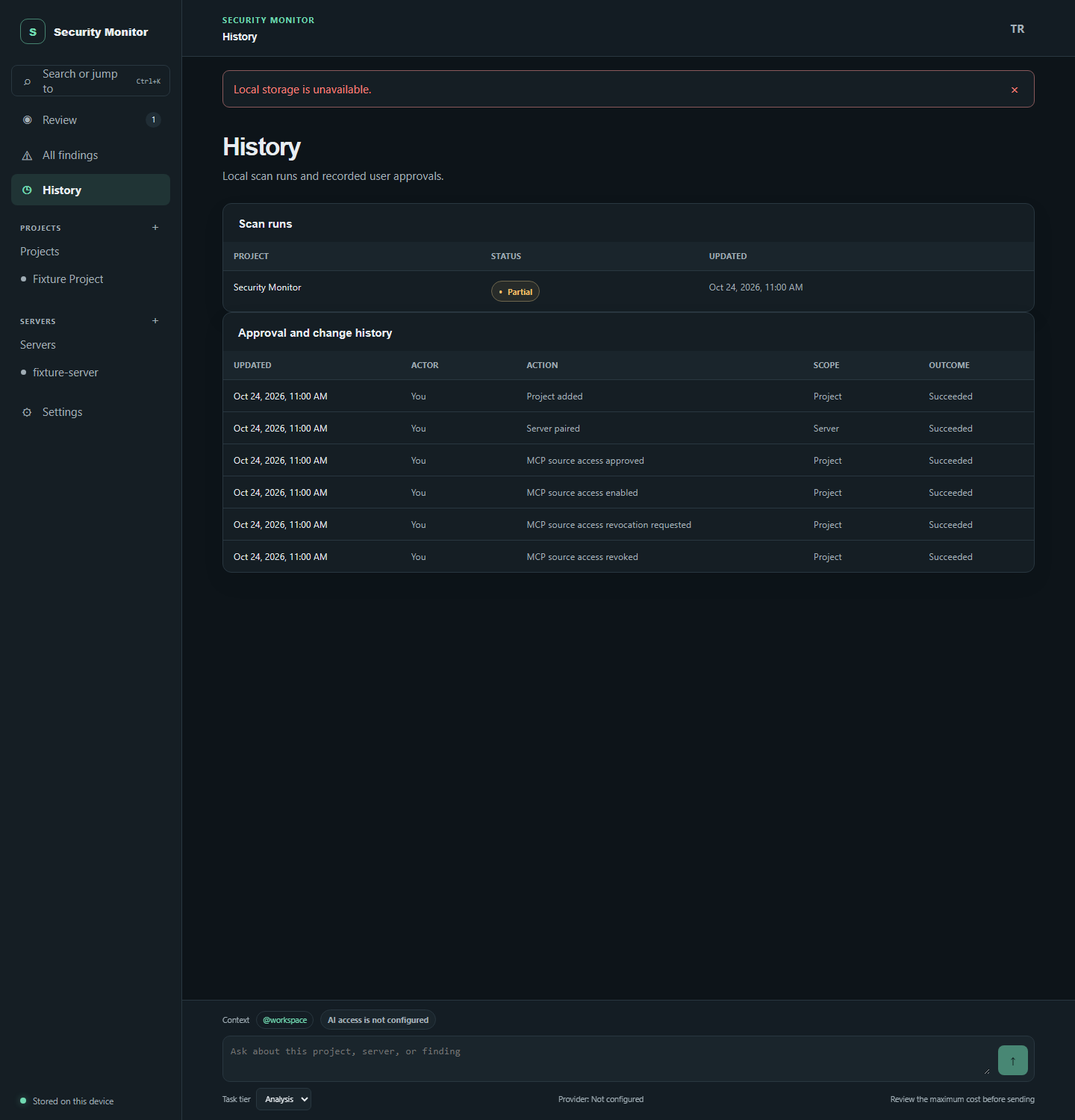
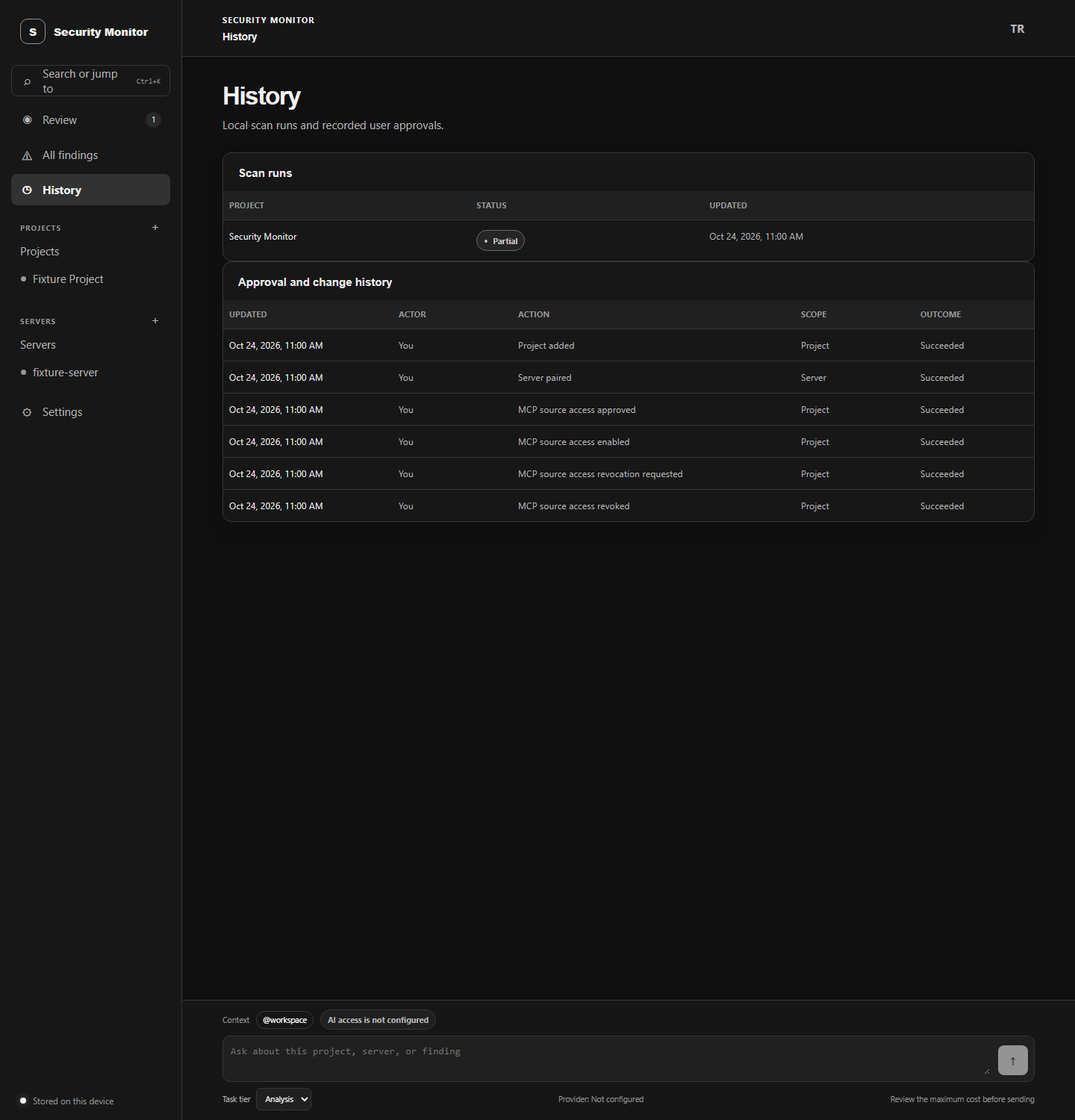
fix(ui): show verification states and source attribution

diff --git a/apps/desktop/src/App.tsx b/apps/desktop/src/App.tsx
@@ -47,6 +47,15 @@ function date(value: string | null | undefined, language: Language): string {
   return Number.isNaN(parsed.getTime()) ? "—" : new Intl.DateTimeFormat(language, { dateStyle: "medium", timeStyle: "short" }).format(parsed);
 }
 
+function safeExternalUrl(value: string): string | null {
+  try {
+    const url = new URL(value);
+    return url.protocol === "https:" && Boolean(url.hostname) && !url.username && !url.password ? url.toString() : null;
+  } catch {
+    return null;
+  }
+}
+
 function isFresh(value: string | null | undefined, hours: number): boolean {
   if (!value) return false;
   const timestamp = new Date(value).getTime();
@@ -326,7 +335,7 @@ function Projects({ data, t, addProject, startScan, cancelScan, scanState, activ
           <section className="project-subsection"><h3>{t("navigation.findings")}</h3>{projectFindings.length === 0 ? <p>{t("common.unverified")}</p> : <><p className="risk-summary">{(["critical", "high", "medium", "low"] as const).map((severity) => `${projectFindings.filter((finding) => finding.severity === severity).length} ${t(`severity.${severity}`)}`).join(" · ")}</p><ul>{projectFindings.slice(0, 3).map((finding) => <li key={finding.id}><button className="text-button" onClick={() => { setPage("findings"); setFocusFindingId(finding.id); setContext(project.name); }}>{data.advisories.find((item) => item.canonical_id === finding.advisory_id)?.canonical_id ?? finding.advisory_id}</button><span><StatusTag value={finding.status} t={t} /> <small>{t("findings.priority")}: {finding.priority_score}</small></span></li>)}</ul></>}</section>
           <section className="project-subsection"><h3>{t("projects.inventory")}</h3>{projectComponents.length === 0 ? <p>{project.last_scan_at ? t("common.noResults") : t("common.unverified")}</p> : <ul>{projectComponents.slice(0, 8).map((component) => <li key={component.id}><span>{component.name}@{component.version}</span><small>{t(`ecosystems.${component.ecosystem}`) === `ecosystems.${component.ecosystem}` ? t("common.unverified") : t(`ecosystems.${component.ecosystem}`)}</small></li>)}</ul>}</section>
           <section className="project-subsection"><div className="subsection-title"><h3>{t("drift.title")}</h3><StatusTag value="unverified" t={t} /></div><p>{t("drift.noSnapshotBody")}</p></section>
-          <section className="project-subsection"><h3>{t("projects.scanHistory")}</h3>{projectRuns.length === 0 ? <p>{t("common.unverified")}</p> : <ul>{projectRuns.map((run) => <li key={run.id}><StatusTag value={run.outcome} t={t} /><small>{date(run.finished_at ?? run.started_at, data.settings.language)}</small></li>)}</ul>}</section>
+          <section className="project-subsection"><h3>{t("projects.scanHistory")}</h3>{projectRuns.length === 0 ? <p>{t("common.unverified")}</p> : <ul>{projectRuns.map((run) => <li key={run.id}><StatusTag value={run.outcome} t={t} /><small>{date(run.finished_at ?? run.started_at, data.settings.language)}</small><ScanDiagnostics error={run.error} t={t} /></li>)}</ul>}</section>
           <MemoryNotes scope="project" scopeId={project.id} t={t} setNotice={setNotice} />
           <div className="project-meta"><span>{project.git_remote ? t("projects.remoteConfigured") : t("projects.noRemote")}</span><span>{t("common.updated")}: {date(project.updated_at, data.settings.language)}</span></div>
           <div className="button-row">{activeScanIds[project.id] ? <button className="button quiet" onClick={() => void cancelScan(project.id)}>{t("actions.cancel")}</button> : <><button className="button primary" onClick={() => void startScan(project, "quick")}>{t("actions.scanQuick")}</button><button className="button secondary" onClick={() => void startScan(project, "full")}>{t("actions.scanFull")}</button></>}</div>
@@ -396,9 +405,9 @@ function Findings({ data, t, refresh, setNotice, updateFinding, initialFindingId
   return <>
     <PageHeading title={t("findings.title")} description={t("findings.description")} />
     <section className="panel filters" aria-label={t("common.search")}><label className="field grow"><span>{t("common.search")}</span><input value={query} onChange={(event) => setQuery(event.target.value)} placeholder={t("common.searchPlaceholder")} /></label><label className="field"><span>{t("common.severity")}</span><select value={severity} onChange={(event) => setSeverity(event.target.value)}><option value="all">{t("common.all")}</option>{["critical", "high", "medium", "low", "unknown"].map((value) => <option key={value} value={value}>{t(`severity.${value}`)}</option>)}</select></label><label className="field"><span>{t("common.status")}</span><select value={status} onChange={(event) => setStatus(event.target.value)}><option value="all">{t("common.all")}</option>{["new", "needs_review", "confirmed_affected", "not_reachable", "mitigated", "fix_proposed", "fixed_in_repo", "fixed_in_production", "accepted_risk", "false_positive"].map((value) => <option key={value} value={value}>{t(`status.${value}`)}</option>)}</select></label><label className="field"><span>{t("common.project")}</span><select value={project} onChange={(event) => setProject(event.target.value)}><option value="all">{t("common.all")}</option>{data.projects.map((item) => <option value={item.id} key={item.id}>{item.name}</option>)}</select></label></section>
-    {filtered.length === 0 ? <Empty t={t} noResults={data.findings.length > 0} /> : <section className="panel table-panel"><div className="table-wrap"><table><thead><tr><th>{t("findings.advisory")}</th><th>{t("findings.package")}</th><th>{t("common.severity")}</th><th>{t("common.status")}</th><th>{t("common.project")}</th><th>{t("findings.priority")}</th><th>{t("common.updated")}</th></tr></thead><tbody>{filtered.map((finding) => {
+    {filtered.length === 0 ? <Empty t={t} noResults={data.findings.length > 0} /> : <section className="panel table-panel"><div className="table-wrap"><table><thead><tr><th>{t("findings.advisory")}</th><th>{t("findings.package")}</th><th>{t("common.severity")}</th><th>{t("common.status")}</th><th>{t("drift.repository")}</th><th>{t("drift.production")}</th><th>{t("common.project")}</th><th>{t("findings.priority")}</th><th>{t("common.updated")}</th></tr></thead><tbody>{filtered.map((finding) => {
       const advisory = advisories.get(finding.advisory_id); const instance = instances.get(finding.component_instance_id); const component = instance ? components.get(instance.component_id) : undefined;
-      return <tr key={finding.id}><td><button className="text-button" onClick={() => setSelected(finding)}>{advisory?.canonical_id ?? finding.advisory_id}</button><small className="cell-subtitle">{advisory?.title ?? t("common.unverified")}</small></td><td>{component ? `${component.name}@${component.version}` : t("common.unverified")}</td><td><SeverityLabel severity={finding.severity} t={t} /></td><td><StatusTag value={finding.status} t={t} /></td><td>{instance?.project_id ? projects.get(instance.project_id)?.name ?? t("common.unverified") : t("common.unknown")}</td><td>{finding.priority_score}</td><td>{date(finding.updated_at, data.settings.language)}</td></tr>;
+      return <tr key={finding.id}><td><button className="text-button" onClick={() => setSelected(finding)}>{advisory?.canonical_id ?? finding.advisory_id}</button><small className="cell-subtitle">{advisory?.title ?? t("common.unverified")}</small></td><td>{component ? `${component.name}@${component.version}` : t("common.unverified")}</td><td><SeverityLabel severity={finding.severity} t={t} /></td><td><StatusTag value={finding.status} t={t} /></td><td><RepoProductionStatus kind="repo" value={finding.repo_status} compact t={t} /></td><td><RepoProductionStatus kind="production" value={finding.production_status} compact t={t} /></td><td>{instance?.project_id ? projects.get(instance.project_id)?.name ?? t("common.unverified") : t("common.unknown")}</td><td>{finding.priority_score}</td><td>{date(finding.updated_at, data.settings.language)}</td></tr>;
     })}</tbody></table></div></section>}
     {selected && (editingStatus
       ? <StatusDialog finding={selected} instance={instances.get(selected.component_instance_id)} t={t} close={() => setEditingStatus(false)} onSave={async (change) => { try { const updated = await api.setFindingStatus(change); updateFinding(updated); setSelected(null); setEditingStatus(false); setNotice({ kind: "success", message: t("findings.statusSaved") }); refresh(); } catch (error) { setNotice({ kind: "error", message: safeError(error, t) }); } }} />
@@ -442,7 +451,7 @@ function FindingDetail({ finding, advisory, component, instance, projectName, ev
   return <div className="dialog-backdrop" role="presentation" onMouseDown={(event) => { if (event.target === event.currentTarget) close(); }}><article className="finding-detail panel" role="dialog" aria-modal="true" aria-labelledby="finding-detail-title">
     <div className="panel-heading"><div><span className="eyebrow">{t("findings.detailTitle")}</span><h2 id="finding-detail-title">{advisory?.canonical_id ?? finding.advisory_id}</h2></div><button className="icon-button" aria-label={t("actions.close")} onClick={close}>×</button></div>
     <p className="finding-detail-package">{component ? `${component.name}@${component.version}` : t("common.unverified")} · {projectName ?? t("common.unverified")}</p>
-    <div className="finding-detail-tags"><SeverityLabel severity={finding.severity} t={t} /><StatusTag value={finding.status} t={t} /><span className="tag">{t("findings.priority")}: {finding.priority_score}</span></div>
+    <div className="finding-detail-tags"><SeverityLabel severity={finding.severity} t={t} /><StatusTag value={finding.status} t={t} /><RepoProductionStatus kind="repo" value={finding.repo_status} t={t} /><RepoProductionStatus kind="production" value={finding.production_status} t={t} /><span className="tag">{t("findings.priority")}: {finding.priority_score}</span></div>
     <section><h3>{t("findings.whyMatters")}</h3><p>{advisory?.description || advisory?.summary || t("common.unverified")}</p>{why.length > 0 && <ul>{why.map((reason, index) => <li key={`${reason}-${index}`}>{reason}</li>)}</ul>}</section>
     <section><h3>{t("findings.evidence")}</h3>{evidence.length === 0 && instanceEvidence.length === 0 ? <p>{t("findings.noEvidence")}</p> : <ul>{evidence.map((item) => {
       const evidenceKey = `evidence.${item.evidence_type}`;
@@ -485,11 +494,37 @@ function Drift({ data, t }: { data: WorkspaceData; t: T }) {
 }
 
 function History({ data, t }: { data: WorkspaceData; t: T }) {
-  return <><PageHeading title={t("history.title")} description={t("history.description")} /><section className="panel table-panel"><div className="panel-heading"><h2>{t("history.scanRuns")}</h2></div>{data.runs.length === 0 ? <Empty t={t} /> : <div className="table-wrap"><table><thead><tr><th>{t("common.project")}</th><th>{t("common.status")}</th><th>{t("common.updated")}</th></tr></thead><tbody>{data.runs.map((run) => <tr key={run.id}><td>{run.scanner === "security-monitor" ? t("appName") : t("common.unknown")}</td><td><StatusTag value={run.outcome} t={t} /></td><td>{date(run.finished_at ?? run.started_at, data.settings.language)}</td></tr>)}</tbody></table></div>}</section><section className="panel table-panel"><div className="panel-heading"><h2>{t("history.auditEvents")}</h2></div>{data.audit.length === 0 ? <Empty t={t} /> : <div className="table-wrap"><table><thead><tr><th>{t("common.updated")}</th><th>{t("history.actor")}</th><th>{t("history.action")}</th><th>{t("history.scope")}</th><th>{t("history.outcome")}</th></tr></thead><tbody>{[...data.audit].sort((a, b) => b.timestamp.localeCompare(a.timestamp)).map((event) => <tr key={event.id}><td>{date(event.timestamp, data.settings.language)}</td><td>{event.actor === "user" ? t("common.user") : t("common.unknown")}</td><td>{auditAction(event.action, t)}</td><td>{event.scope.resource_type === "project" ? t("common.project") : event.scope.resource_type === "asset" ? t("common.server") : t("common.unknown")}</td><td>{t(`status.${event.result}`)}</td></tr>)}</tbody></table></div>}</section></>;
+  return <><PageHeading title={t("history.title")} description={t("history.description")} /><section className="panel table-panel"><div className="panel-heading"><h2>{t("history.scanRuns")}</h2></div>{data.runs.length === 0 ? <Empty t={t} /> : <div className="table-wrap"><table><thead><tr><th>{t("common.project")}</th><th>{t("common.status")}</th><th>{t("common.updated")}</th></tr></thead><tbody>{data.runs.map((run) => <tr key={run.id}><td>{run.scanner === "security-monitor" ? t("appName") : t("common.unknown")}</td><td><StatusTag value={run.outcome} t={t} /><ScanDiagnostics error={run.error} t={t} /></td><td>{date(run.finished_at ?? run.started_at, data.settings.language)}</td></tr>)}</tbody></table></div>}</section><section className="panel table-panel"><div className="panel-heading"><h2>{t("history.auditEvents")}</h2></div>{data.audit.length === 0 ? <Empty t={t} /> : <div className="table-wrap"><table><thead><tr><th>{t("common.updated")}</th><th>{t("history.actor")}</th><th>{t("history.action")}</th><th>{t("history.scope")}</th><th>{t("history.outcome")}</th></tr></thead><tbody>{[...data.audit].sort((a, b) => b.timestamp.localeCompare(a.timestamp)).map((event) => <tr key={event.id}><td>{date(event.timestamp, data.settings.language)}</td><td>{event.actor === "user" ? t("common.user") : t("common.unknown")}</td><td>{auditAction(event.action, t)}</td><td>{event.scope.resource_type === "project" ? t("common.project") : event.scope.resource_type === "asset" ? t("common.server") : t("common.unknown")}</td><td>{t(`status.${event.result}`)}</td></tr>)}</tbody></table></div>}</section></>;
+}
+
+function ScanDiagnostics({ error, t }: { error: string | null; t: T }) {
+  if (!error) return null;
+  const items = error.split(",").map((diagnostic) => {
+    const [kind, engine, scope, state] = diagnostic.split(":");
+    if (kind === "scanner_coverage" && engine && scope && state) {
+      const scanner = t(`scanner.${engine.replaceAll("-", "_")}`);
+      return `${scanner} · ${t(`scanCoverage.${scope}`)} · ${t(`scanCoverage.${state}`)}`;
+    }
+    if (kind === "scanner_execution_failed" && engine && scope) {
+      return `${t(`scanner.${engine.replaceAll("-", "_")}`)} · ${t(`scanCoverage.${scope}`)} · ${t("scanCoverage.incomplete")}`;
+    }
+    const key = `scanDiagnostics.${diagnostic}`;
+    return t(key) === key ? t("common.unverified") : t(key);
+  });
+  return <ul className="scan-diagnostics">{items.map((item, index) => <li key={`${item}-${index}`}>{item}</li>)}</ul>;
 }
 
 function Settings({ data, t, saveSettings, setNotice, refresh }: { data: WorkspaceData; t: T; saveSettings: (settings: AppSettings) => Promise<void>; setNotice: NoticeSetter; refresh: () => void }) {
   const settings = data.settings;
+  const builtInAttributions = [
+    { name: "cve.now", url: "https://cve.now/", license: "CC-BY 4.0" },
+    { name: "OSV", url: "https://osv.dev/", license: t("settings.osvLicenses") },
+    { name: "GitHub Advisory Database", url: "https://github.com/advisories", license: "CC-BY 4.0" },
+    { name: "CISA KEV", url: "https://www.cisa.gov/known-exploited-vulnerabilities-catalog", license: null },
+    { name: "FIRST EPSS", url: "https://www.first.org/epss/", license: "Attribution requested by FIRST" },
+  ];
+  const attributions = [...new Map([...builtInAttributions, ...data.advisories.flatMap((advisory) => advisory.source_attributions)].map((source) => [`${source.name}\u0000${source.url}\u0000${source.license ?? ""}`, source])).values()]
+    .sort((left, right) => left.name.localeCompare(right.name) || left.url.localeCompare(right.url));
   const [scanners, setScanners] = useState<{ engine: string; status: string; version: string | null }[]>([]);
   const [busyEngine, setBusyEngine] = useState<string | null>(null);
   const [update, setUpdate] = useState<UpdateCheckResult | null>(null);
@@ -569,6 +604,7 @@ function Settings({ data, t, saveSettings, setNotice, refresh }: { data: Workspa
       {scanners.length === 0 ? <p>{t("common.unverified")}</p> : <ul className="scanner-list">{scanners.map((scanner) => <li key={scanner.engine}><span>{t(`scanner.${scanner.engine.replaceAll("-", "_")}`)}</span><span className={`tag ${scanner.status === "available" ? "verified" : "unverified"}`}>{t(`scanner.${scanner.status}`)}</span>{scanner.version && <small>{scanner.version}</small>}{scanner.status === "missing" && ["osv-scanner", "trivy", "semgrep"].includes(scanner.engine) && <button className="button secondary" disabled={!settings.public_downloads_enabled || busyEngine === scanner.engine} onClick={() => void install(scanner.engine)}>{busyEngine === scanner.engine ? t("common.loading") : t("actions.install")}</button>}</li>)}</ul>}
     </section>
     <section className="panel settings-panel"><h2>{t("settings.appearance")}</h2><label className="field"><span>{t("settings.appearance")}</span><select value={settings.theme} onChange={(event) => void saveSettings({ ...settings, theme: event.target.value as AppSettings["theme"] })}>{["system", "light", "dark"].map((value) => <option value={value} key={value}>{t(`theme.${value}`)}</option>)}</select></label><label className="field"><span>{t("settings.language")}</span><select value={settings.language} onChange={(event) => void saveSettings({ ...settings, language: event.target.value as AppSettings["language"] })}><option value="en">{en.languageName}</option><option value="tr">{tr.languageName}</option></select></label></section>
+    <section className="panel settings-panel"><h2>{t("settings.dataSources")}</h2><p>{t("settings.dataSourcesHelp")}</p><ul className="simple-list">{attributions.map((source) => { const url = safeExternalUrl(source.url); return <li key={`${source.name}-${source.url}-${source.license ?? ""}`}><span><strong>{source.name}</strong><small>{source.license ?? t("settings.licenseUnverified")}</small></span>{url ? <a href={url} target="_blank" rel="noreferrer">{source.url}</a> : <code>{t("common.unverified")}</code>}</li>; })}</ul></section>
     <AiSettingsPanel data={data} t={t} setNotice={setNotice} refresh={refresh} />
     <section className="panel settings-panel"><h2>{t("settings.backup")}</h2><p>{t("settings.backupHelp")}</p></section>
   </>;
@@ -636,5 +672,17 @@ function StatusTag({ value, t }: { value: string; t: T }) {
 }
 
 function SeverityLabel({ severity, t }: { severity: string; t: T }) {
-  return <span className="severity-label"><span className={`severity-dot ${severity}`} />{t(`severity.${severity}`)}</span>;
+  const marks: Record<string, string> = { critical: "■", high: "●", medium: "◐", low: "○", unknown: "◌" };
+  const label = severity === "unknown" ? t("common.unverified") : t(`severity.${severity}`);
+  return <span className={`severity-label severity-${severity}`}><span className="severity-mark" aria-hidden="true">{marks[severity] ?? marks.unknown}</span><span>{label}</span></span>;
+}
+
+function RepoProductionStatus({ kind, value, compact = false, t }: { kind: "repo" | "production"; value: string; compact?: boolean; t: T }) {
+  const labels: Record<string, string> = {
+    still_affected: "drift.stillAffected",
+    fixed_in_repo: "drift.fixedInRepo",
+    fixed_in_production: "drift.fixedInProduction",
+    unknown: "common.unverified",
+  };
+  return <span className={`tag repo-production-status${compact ? " compact" : ""}`}><span className={compact ? "sr-only" : undefined}>{t(kind === "repo" ? "drift.repository" : "drift.production")}</span><strong>{t(labels[value] ?? "common.unverified")}</strong></span>;
 }

diff --git a/apps/desktop/src/RemediationSection.tsx b/apps/desktop/src/RemediationSection.tsx
@@ -126,33 +126,33 @@ export function RemediationSection({ findingId, projectId, data, t, setNotice }:
   }
 
   return <section className="remediation-workflow" aria-labelledby="remediation-workflow-title">
-    <h4 id="remediation-workflow-title">{t("findings.remediation.workflowTitle")}</h4>
-    {projectId === null ? <p className="unverified-line">{t("findings.remediation.projectRequired")}</p> : <>
-      {mcpRequests.map((request) => <article className="remediation-mcp-request" key={request.id}><strong>{request.action === "prepare_patch" ? t("findings.remediation.mcpPatchRequest") : t("findings.remediation.mcpTestRequest")}</strong><small>{t("findings.remediation.mcpQueueHelp")}</small><div className="button-row end">{request.action === "prepare_patch" && <button className="button secondary" disabled={busyId !== null || active || !request.provider_id || !providers.some((provider) => provider.id === request.provider_id)} onClick={() => void queueMcpPatch(request)}>{busyId === request.id ? t("common.loading") : t("findings.remediation.reviewMcpRequest")}</button>}<button className="button quiet" disabled={busyId !== null} onClick={() => void dismissMcpRequest(request)}>{t("actions.cancel")}</button></div></article>)}
-      {providers.length === 0 ? <p className="unverified-line">{t("findings.remediation.providerRequired")}</p> : <div className="remediation-request-row">
-        <label className="field"><span>{t("findings.remediation.agentProvider")}</span><select value={providerId} onChange={(event) => setProviderId(event.target.value)}>{providers.map((provider) => <option key={provider.id} value={provider.id}>{provider.display_name}</option>)}</select></label>
-        <button className="button secondary" disabled={busyId !== null || active || !providerId} onClick={() => void requestPatch()}>{busyId === "new" ? t("common.loading") : t("findings.remediation.requestPatch")}</button>
+    <h4 id="remediation-workflow-title">{t("findings.remediationWorkflow.workflowTitle")}</h4>
+    {projectId === null ? <p className="unverified-line">{t("findings.remediationWorkflow.projectRequired")}</p> : <>
+      {mcpRequests.map((request) => <article className="remediation-mcp-request" key={request.id}><strong>{request.action === "prepare_patch" ? t("findings.remediationWorkflow.mcpPatchRequest") : t("findings.remediationWorkflow.mcpTestRequest")}</strong><small>{t("findings.remediationWorkflow.mcpQueueHelp")}</small><div className="button-row end">{request.action === "prepare_patch" && <button className="button secondary" disabled={busyId !== null || active || !request.provider_id || !providers.some((provider) => provider.id === request.provider_id)} onClick={() => void queueMcpPatch(request)}>{busyId === request.id ? t("common.loading") : t("findings.remediationWorkflow.reviewMcpRequest")}</button>}<button className="button quiet" disabled={busyId !== null} onClick={() => void dismissMcpRequest(request)}>{t("actions.cancel")}</button></div></article>)}
+      {providers.length === 0 ? <p className="unverified-line">{t("findings.remediationWorkflow.providerRequired")}</p> : <div className="remediation-request-row">
+        <label className="field"><span>{t("findings.remediationWorkflow.agentProvider")}</span><select value={providerId} onChange={(event) => setProviderId(event.target.value)}>{providers.map((provider) => <option key={provider.id} value={provider.id}>{provider.display_name}</option>)}</select></label>
+        <button className="button secondary" disabled={busyId !== null || active || !providerId} onClick={() => void requestPatch()}>{busyId === "new" ? t("common.loading") : t("findings.remediationWorkflow.requestPatch")}</button>
       </div>}
-      {sandbox && !sandbox.available && <p className="unverified-line">{t("findings.remediation.sandboxUnavailable")}</p>}
-      {remediations.length === 0 ? <p>{t("findings.remediation.noRequests")}</p> : <ul className="remediation-list">{[...remediations].sort((left, right) => right.created_at.localeCompare(left.created_at)).map((item) => <li key={item.id}>
-        <div className="remediation-head"><strong>{t(`findings.remediation.states.${item.approval_state}`)}</strong><code>{item.branch}</code></div>
+      {sandbox && !sandbox.available && <p className="unverified-line">{t("findings.remediationWorkflow.sandboxUnavailable")}</p>}
+      {remediations.length === 0 ? <p>{t("findings.remediationWorkflow.noRequests")}</p> : <ul className="remediation-list">{[...remediations].sort((left, right) => right.created_at.localeCompare(left.created_at)).map((item) => <li key={item.id}>
+        <div className="remediation-head"><strong>{t(`findings.remediationWorkflow.states.${item.approval_state}`)}</strong><code>{item.branch}</code></div>
         {item.approval_state === "pending" && <div className="approval-box">
-          <p>{t("findings.remediation.patchApprovalHelp")}</p>
-          <label className="check-field"><input type="checkbox" checked={sourceTransferApproved} onChange={(event) => setSourceTransferApproved(event.target.checked)} />{t("findings.remediation.sourceTransferApproval")}</label>
-          <div className="button-row end"><button className="button quiet" disabled={busyId !== null} onClick={() => void reject(item)}>{t("actions.cancel")}</button><button className="button primary" disabled={busyId !== null || !sourceTransferApproved} onClick={() => void approve(item)}>{busyId === item.id ? t("common.loading") : t("findings.remediation.approveAndPrepare")}</button></div>
+          <p>{t("findings.remediationWorkflow.patchApprovalHelp")}</p>
+          <label className="check-field"><input type="checkbox" checked={sourceTransferApproved} onChange={(event) => setSourceTransferApproved(event.target.checked)} />{t("findings.remediationWorkflow.sourceTransferApproval")}</label>
+          <div className="button-row end"><button className="button quiet" disabled={busyId !== null} onClick={() => void reject(item)}>{t("actions.cancel")}</button><button className="button primary" disabled={busyId !== null || !sourceTransferApproved} onClick={() => void approve(item)}>{busyId === item.id ? t("common.loading") : t("findings.remediationWorkflow.approveAndPrepare")}</button></div>
         </div>}
         {item.approval_state === "approved" && <>
-          {mcpRequests.some((request) => request.remediation_id === item.id) && <p className="unverified-line">{t("findings.remediation.mcpTestRequest")}</p>}
-          <p className="remediation-path"><span>{t("findings.remediation.worktree")}</span><code>{item.worktree_path}</code></p>
-          {item.diff_hash ? <p className="remediation-path"><span>{t("findings.remediation.diffHash")}</span><code>{item.diff_hash}</code></p> : <p className="unverified-line">{t("findings.remediation.noDiff")}</p>}
-          {item.tests.map((test, index) => <p className="remediation-test" key={`${item.id}-${index}`}><StatusTag value={test.passed ? "succeeded" : "failed"} t={t} /><span>{test.name}</span><small>{test.exit_code === null ? t("findings.remediation.exitUnknown") : `${t("findings.remediation.exitCode")}: ${test.exit_code}`}</small></p>)}
+          {mcpRequests.some((request) => request.remediation_id === item.id) && <p className="unverified-line">{t("findings.remediationWorkflow.mcpTestRequest")}</p>}
+          <p className="remediation-path"><span>{t("findings.remediationWorkflow.worktree")}</span><code>{item.worktree_path}</code></p>
+          {item.diff_hash ? <p className="remediation-path"><span>{t("findings.remediationWorkflow.diffHash")}</span><code>{item.diff_hash}</code></p> : <p className="unverified-line">{t("findings.remediationWorkflow.noDiff")}</p>}
+          {item.tests.map((test, index) => <p className="remediation-test" key={`${item.id}-${index}`}><StatusTag value={test.passed ? "succeeded" : "failed"} t={t} /><span>{test.name}</span><small>{test.exit_code === null ? t("findings.remediationWorkflow.exitUnknown") : `${t("findings.remediationWorkflow.exitCode")}: ${test.exit_code}`}</small></p>)}
           {sandbox?.available && <div className="remediation-test-form">
-            <h5>{t("findings.remediation.runTests")}</h5>
-            <label className="field"><span>{t("findings.remediation.testExecutable")}</span><input value={testExecutable} onChange={(event) => setTestExecutable(event.target.value)} /></label>
-            <label className="field"><span>{t("findings.remediation.testArguments")}</span><textarea rows={3} value={testArgs} onChange={(event) => setTestArgs(event.target.value)} /></label>
-            <label className="field"><span>{t("findings.remediation.testImage")}</span><input value={testImage} onChange={(event) => setTestImage(event.target.value)} placeholder={t("findings.remediation.imagePlaceholder")} /></label>
-            <label className="check-field"><input type="checkbox" checked={executeApproved} onChange={(event) => setExecuteApproved(event.target.checked)} />{t("findings.remediation.executeApproval")}</label>
-            <button className="button secondary" disabled={busyId !== null || !executeApproved || !testExecutable.trim() || !testImage.trim()} onClick={() => void runTests(item)}>{busyId === item.id ? t("common.loading") : t("findings.remediation.approveAndRun")}</button>
+            <h5>{t("findings.remediationWorkflow.runTests")}</h5>
+            <label className="field"><span>{t("findings.remediationWorkflow.testExecutable")}</span><input value={testExecutable} onChange={(event) => setTestExecutable(event.target.value)} /></label>
+            <label className="field"><span>{t("findings.remediationWorkflow.testArguments")}</span><textarea rows={3} value={testArgs} onChange={(event) => setTestArgs(event.target.value)} /></label>
+            <label className="field"><span>{t("findings.remediationWorkflow.testImage")}</span><input value={testImage} onChange={(event) => setTestImage(event.target.value)} placeholder={t("findings.remediationWorkflow.imagePlaceholder")} /></label>
+            <label className="check-field"><input type="checkbox" checked={executeApproved} onChange={(event) => setExecuteApproved(event.target.checked)} />{t("findings.remediationWorkflow.executeApproval")}</label>
+            <button className="button secondary" disabled={busyId !== null || !executeApproved || !testExecutable.trim() || !testImage.trim()} onClick={() => void runTests(item)}>{busyId === item.id ? t("common.loading") : t("findings.remediationWorkflow.approveAndRun")}</button>
           </div>}
         </>}
       </li>)}</ul>}
@@ -161,7 +161,7 @@ export function RemediationSection({ findingId, projectId, data, t, setNotice }:
 }
 
 function StatusTag({ value, t }: { value: string; t: T }) {
-  return <span className={`tag ${value === "succeeded" ? "verified" : value === "failed" ? "unverified" : ""}`}>{t(`findings.remediation.testStates.${value}`)}</span>;
+  return <span className={`tag ${value === "succeeded" ? "verified" : value === "failed" ? "unverified" : ""}`}>{t(`findings.remediationWorkflow.testStates.${value}`)}</span>;
 }
 
 function remediationErrorMessage(error: unknown, t: T, fallback: string) {

diff --git a/apps/desktop/src/app.css b/apps/desktop/src/app.css
@@ -1,57 +1,57 @@
 :root {
   font-family: "DM Sans", Inter, ui-sans-serif, system-ui, -apple-system, BlinkMacSystemFont, "Segoe UI", sans-serif;
-  color: #e8edf1;
-  background: #0d1419;
+  color: #f2f2f2;
+  background: #101010;
   font-synthesis: none;
   text-rendering: optimizeLegibility;
   font-weight: 400;
   font-size: 15px;
   -webkit-font-smoothing: antialiased;
-  --surface: #151e24;
-  --surface-raised: #1a252c;
-  --surface-soft: #202d35;
-  --line: #293740;
-  --text: #e8edf1;
-  --muted: #a4b0b8;
-  --dim: #a0adb5;
-  --accent: #70d9b1;
-  --accent-strong: #35b98a;
-  --amber: #f1bf68;
-  --red: #ff827c;
-  --blue: #85b8fa;
-  --button-text: #071b14;
+  --surface: #171717;
+  --surface-raised: #202020;
+  --surface-soft: #292929;
+  --line: #383838;
+  --text: #f2f2f2;
+  --muted: #b8b8b8;
+  --dim: #999;
+  --accent: #f5f5f5;
+  --accent-strong: #fff;
+  --amber: #c7c7c7;
+  --red: #ddd;
+  --blue: #aaa;
+  --button-text: #111;
   color-scheme: dark;
 }
 
 :root[data-theme="light"] {
-  color: #17252c;
-  background: #eef3f1;
+  color: #171717;
+  background: #f2f2f2;
   --surface: #fff;
-  --surface-raised: #f8fbfa;
-  --surface-soft: #eef4f1;
-  --line: #d5e0da;
-  --text: #17252c;
-  --muted: #475b63;
-  --dim: #526167;
-  --accent: #006f53;
-  --accent-strong: #067052;
-  --amber: #8c5a00;
-  --red: #a92c26;
-  --blue: #245ea0;
+  --surface-raised: #f8f8f8;
+  --surface-soft: #eee;
+  --line: #d2d2d2;
+  --text: #171717;
+  --muted: #4a4a4a;
+  --dim: #595959;
+  --accent: #111;
+  --accent-strong: #000;
+  --amber: #4a4a4a;
+  --red: #333;
+  --blue: #555;
   --button-text: #fff;
   color-scheme: light;
 }
 
 :root[data-theme="system"] { color-scheme: dark; }
 @media (prefers-color-scheme: light) {
-  :root[data-theme="system"] { color: #17252c; background: #eef3f1; --surface: #fff; --surface-raised: #f8fbfa; --surface-soft: #eef4f1; --line: #d5e0da; --text: #17252c; --muted: #475b63; --dim: #526167; --accent: #006f53; --accent-strong: #067052; --amber: #8c5a00; --red: #a92c26; --blue: #245ea0; --button-text: #fff; color-scheme: light; }
+  :root[data-theme="system"] { color: #171717; background: #f2f2f2; --surface: #fff; --surface-raised: #f8f8f8; --surface-soft: #eee; --line: #d2d2d2; --text: #171717; --muted: #4a4a4a; --dim: #595959; --accent: #111; --accent-strong: #000; --amber: #4a4a4a; --red: #333; --blue: #555; --button-text: #fff; color-scheme: light; }
 }
 
 * { box-sizing: border-box; }
-body { min-width: 320px; min-height: 100vh; margin: 0; color: var(--text); background: #0d1419; }
-:root[data-theme="light"] body { background: #eef3f1; }
-:root[data-theme="system"] body { background: #0d1419; }
-@media (prefers-color-scheme: light) { :root[data-theme="system"] body { background: #eef3f1; } }
+body { min-width: 320px; min-height: 100vh; margin: 0; color: var(--text); background: #101010; }
+:root[data-theme="light"] body { background: #f2f2f2; }
+:root[data-theme="system"] body { background: #101010; }
+@media (prefers-color-scheme: light) { :root[data-theme="system"] body { background: #f2f2f2; } }
 button, input, select { color: inherit; font: inherit; }
 button { cursor: pointer; }
 button:disabled { opacity: .55; cursor: not-allowed; }
@@ -61,7 +61,7 @@ h1, h2, h3, p { margin-top: 0; }
 h1, h2, h3, .brand { font-family: Manrope, "DM Sans", sans-serif; }
 p { color: var(--muted); line-height: 1.6; }
 
-.skip-link { position: fixed; z-index: 20; top: 8px; left: 8px; transform: translateY(-160%); padding: 10px 14px; color: #081a14; background: var(--accent); border-radius: 8px; }
+.skip-link { position: fixed; z-index: 20; top: 8px; left: 8px; transform: translateY(-160%); padding: 10px 14px; color: var(--button-text); background: var(--accent); border-radius: 8px; }
 .skip-link:focus { transform: translateY(0); }
 .app-frame { display: grid; grid-template-columns: 244px minmax(0, 1fr); min-height: 100vh; }
 .sidebar { position: sticky; top: 0; display: flex; height: 100vh; flex-direction: column; padding: 25px 15px 18px; border-right: 1px solid var(--line); background: var(--surface); }
@@ -102,7 +102,7 @@ p { color: var(--muted); line-height: 1.6; }
 .button { min-height: 39px; padding: 8px 13px; border: 1px solid transparent; border-radius: 8px; font-weight: 650; transition: background .15s ease, border-color .15s ease, transform .15s ease; }
 .button:active { transform: translateY(1px); }
 .button.primary { color: var(--button-text); background: var(--accent); }
-.button.primary:hover { background: #8be8c3; }
+.button.primary:hover { background: var(--accent-strong); }
 .button.secondary { color: var(--text); border-color: var(--line); background: var(--surface-raised); }
 .button.secondary:hover, .button.quiet:hover { border-color: var(--accent); background: var(--surface-soft); }
 .button.quiet { color: var(--muted); border-color: transparent; background: transparent; }
@@ -138,8 +138,9 @@ p { color: var(--muted); line-height: 1.6; }
 .review-item-copy { min-width: 0; }.review-item-copy p { margin: 5px 0 3px; color: var(--text); font-size: .86rem; }.review-item-copy small { color: var(--dim); }
 .review-item-title { display: flex; align-items: center; flex-wrap: wrap; gap: 8px; }.review-item-title strong { font-family: ui-monospace, SFMono-Regular, Consolas, monospace; font-size: .82rem; }
 .review-item-actions { display: flex; flex: 0 0 auto; gap: 5px; }
-.severity-dot { display: inline-block; width: 8px; height: 8px; border-radius: 50%; background: var(--dim); }
-.severity-dot.critical { background: #fa6c72; }.severity-dot.high { background: #f09568; }.severity-dot.medium { background: #e8c15d; }.severity-dot.low { background: #64c9ae; }.severity-dot.unknown { background: var(--dim); }
+.severity-mark { display: inline-grid; min-width: 1em; place-items: center; color: var(--text); font-size: .9em; line-height: 1; }
+.severity-critical, .severity-high { font-weight: 800; }.severity-medium, .severity-low, .severity-unknown { font-weight: 500; }.severity-unknown { color: var(--dim); }
+.repo-production-status { gap: 5px; white-space: normal; }.repo-production-status strong { font-weight: 650; }.repo-production-status.compact { white-space: nowrap; }
 .tag { padding: 5px 9px; color: var(--muted); background: var(--surface-raised); font-size: .72rem; font-weight: 650; }
 .tag.verified { color: var(--accent); border-color: color-mix(in srgb, var(--accent) 35%, var(--line)); background: color-mix(in srgb, var(--accent) 9%, var(--surface)); }
 .tag.needs-review, .tag.partial { color: var(--amber); border-color: color-mix(in srgb, var(--amber) 35%, var(--line)); background: color-mix(in srgb, var(--amber) 8%, var(--surface)); }
@@ -198,7 +199,7 @@ p { color: var(--muted); line-height: 1.6; }
 .fingerprint-box, .pairing-result, .approval-box, .callout { margin-top: 14px; padding: 14px; border: 1px solid var(--line); border-radius: 8px; background: var(--surface-raised); }
 .fingerprint-box { display: grid; gap: 8px; }.fingerprint-box p { margin: 0; font-size: .82rem; }.fingerprint-box code, .pairing-result code { overflow-wrap: anywhere; color: var(--accent); }
 .check-field { display: flex; align-items: flex-start; gap: 9px; color: var(--text); font-size: .85rem; line-height: 1.5; }.check-field input { width: 17px; height: 17px; flex: 0 0 17px; margin: 1px 0 0; accent-color: var(--accent-strong); }.check-field.full { grid-column: 1 / -1; }
-.pairing-result h3 { margin-bottom: 8px; }.pairing-result p { margin-bottom: 8px; }.pairing-result pre { overflow-x: auto; padding: 10px; border-radius: 6px; color: var(--text); background: #0b1115; white-space: pre-wrap; overflow-wrap: anywhere; }
+.pairing-result h3 { margin-bottom: 8px; }.pairing-result p { margin-bottom: 8px; }.pairing-result pre { overflow-x: auto; padding: 10px; border-radius: 6px; color: var(--text); background: #101010; white-space: pre-wrap; overflow-wrap: anywhere; }
 .approval-box p { margin-bottom: 10px; }.simple-list li > span { color: var(--muted); }
 .filters { display: grid; grid-template-columns: minmax(190px, 1.7fr) repeat(3, minmax(130px, 1fr)); align-items: end; gap: 12px; margin-bottom: 16px; }
 .table-panel { padding: 0; overflow: hidden; }.table-panel > .panel-heading { padding: 18px 20px 0; }
@@ -206,6 +207,7 @@ p { color: var(--muted); line-height: 1.6; }
 table { width: 100%; border-collapse: collapse; font-size: .82rem; text-align: left; }
 th { padding: 12px 14px; color: var(--dim); background: var(--surface-raised); font-size: .7rem; font-weight: 700; letter-spacing: .04em; text-transform: uppercase; white-space: nowrap; }
 td { min-width: 100px; padding: 13px 14px; border-top: 1px solid var(--line); color: var(--muted); vertical-align: top; }
+.table-panel th, .table-panel td { padding-inline: 8px; }
 td:first-child { color: var(--text); } .cell-subtitle { display: block; max-width: 300px; margin-top: 4px; overflow: hidden; color: var(--dim); text-overflow: ellipsis; white-space: nowrap; }
 .severity-label { display: inline-flex; align-items: center; gap: 7px; white-space: nowrap; }
 .empty-state, .empty-panel { display: grid; justify-items: center; padding: 42px 20px; text-align: center; }.empty-panel { min-height: 300px; align-content: center; }.empty-state h2, .empty-panel h2 { margin: 12px 0 5px; }.empty-state p, .empty-panel p { max-width: 530px; margin-bottom: 0; }

diff --git a/docs/data-sources.md b/docs/data-sources.md
@@ -10,7 +10,7 @@ Security Monitor downloads public advisory data and keeps provider caches on the
 | Source | Current use | Freshness and attribution |
 | --- | --- | --- |
 | [cve.now](https://cve.now/) | Primary incremental source for new and changed advisories. Poll `GET /api/v1/status`, then read cursor-paginated entries and their public details. | Default poll interval is 10 minutes (configurable from 5 minutes to 24 hours). The API reports both upstream polling status and historical package-data cutoffs; missing, unhealthy, cached, future-dated, or over-24-hour source status is stale. Summaries are CC BY 4.0: attribute cve.now and link to the entry. Package-version data can lag by days, so OSV remains the package matching source. |
-| [OSV](https://osv.dev/) | Per-ecosystem offline vulnerability database for package and version matching. Only ecosystems present in the local inventory are refreshed. | Default refresh is hourly. Keep the database local and mark it stale when unavailable or older than the refresh interval. OSV aggregates data under different upstream licenses; preserve `database_specific.source` attribution when available and do not infer one blanket license for all OSV records. |
+| [OSV](https://osv.dev/) | Per-ecosystem offline vulnerability database for package and version matching. Only ecosystems present in the local inventory are refreshed. | Default refresh is hourly. Keep the database local and mark it stale when unavailable or older than the refresh interval. OSV aggregates data under different upstream licenses, including CC BY-SA and CC BY-NC-ND content; preserve `database_specific.source` attribution when available and do not infer one blanket license for all OSV records. |
 | [GitHub Advisory Database](https://github.com/advisories) | Direct cross-check by public GHSA ID for new cve.now records. | At most 10 lookups run per refresh; any remaining or failed checks leave the provider stale. Attribute GHSA records under CC BY 4.0 and retain their affected-range source. |
 | [CISA KEV](https://www.cisa.gov/known-exploited-vulnerabilities-catalog) | Daily full-catalog enrichment for known exploitation. | Use the local cache when offline and mark it stale. A catalog absence is not proof that a vulnerability is not exploited. |
 | [FIRST EPSS](https://www.first.org/epss/) | Daily CSV enrichment for exploit probability. | Keep the publication date and FIRST attribution with each score. EPSS is a probability estimate, not confirmation of exploitation. |
@@ -21,7 +21,7 @@ Security Monitor downloads public advisory data and keeps provider caches on the
 
 If the application displays cve.now's summaries, attribute [cve.now](https://cve.now/) and link to [CC BY 4.0](https://creativecommons.org/licenses/by/4.0/). The cve.now response identifies the summary model; preserve that label with the summary. cve.now combines data from several providers, so its summary license does not replace the terms or attribution of each underlying source.
 
-GitHub Advisory Database data is CC BY 4.0. FIRST requests attribution for EPSS data. OSV is an aggregator whose source databases use different licenses; preserve per-record source attribution when supplied and leave the license unspecified when it cannot be verified. Do not assign a license to CISA data without a source-specific grant.
+GitHub Advisory Database data is CC BY 4.0. FIRST requests attribution for EPSS data. OSV is an aggregator whose source databases use different licenses, including CC BY-SA and CC BY-NC-ND; preserve per-record source attribution when supplied and leave the license unspecified when it cannot be verified. Do not assign a license to CISA data without a source-specific grant.
 
 When using NVD API data, display this notice:
 
